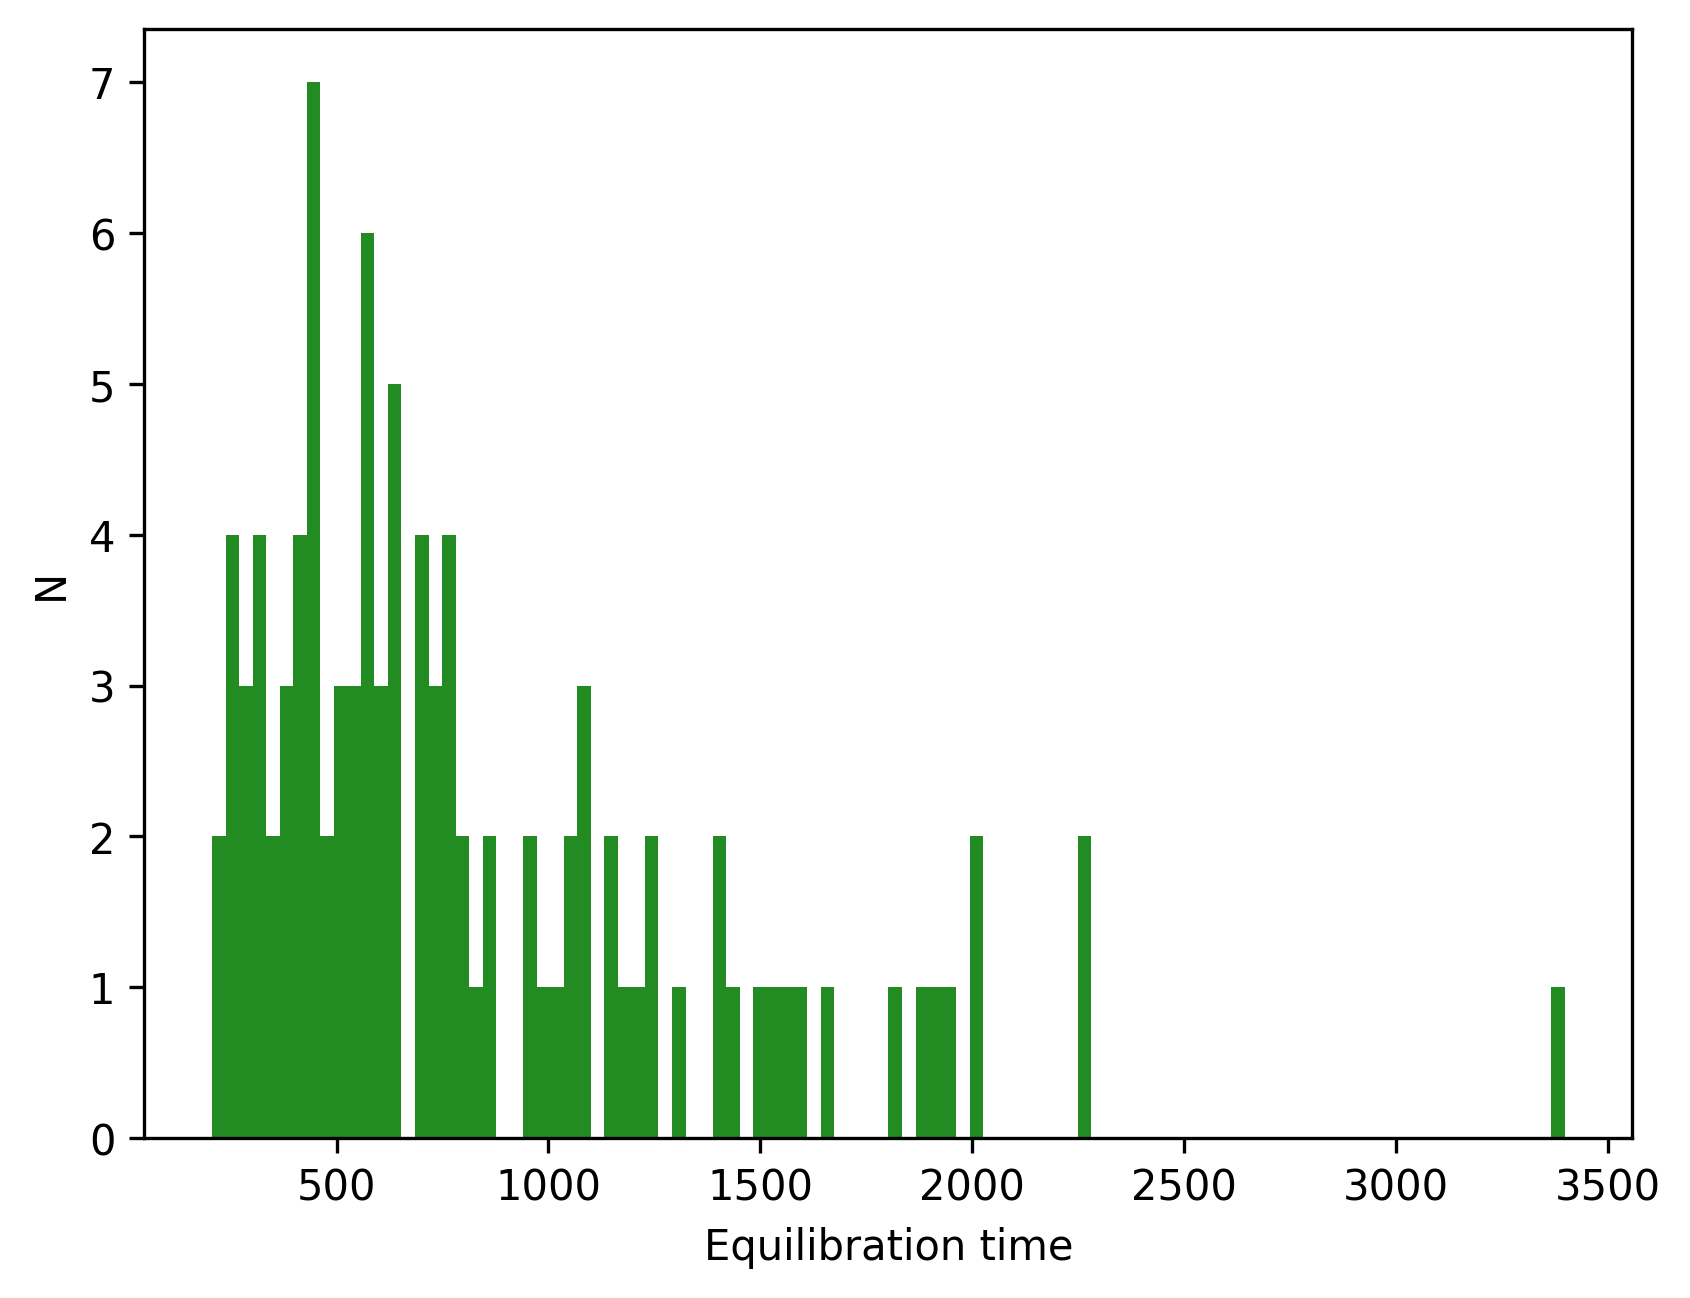
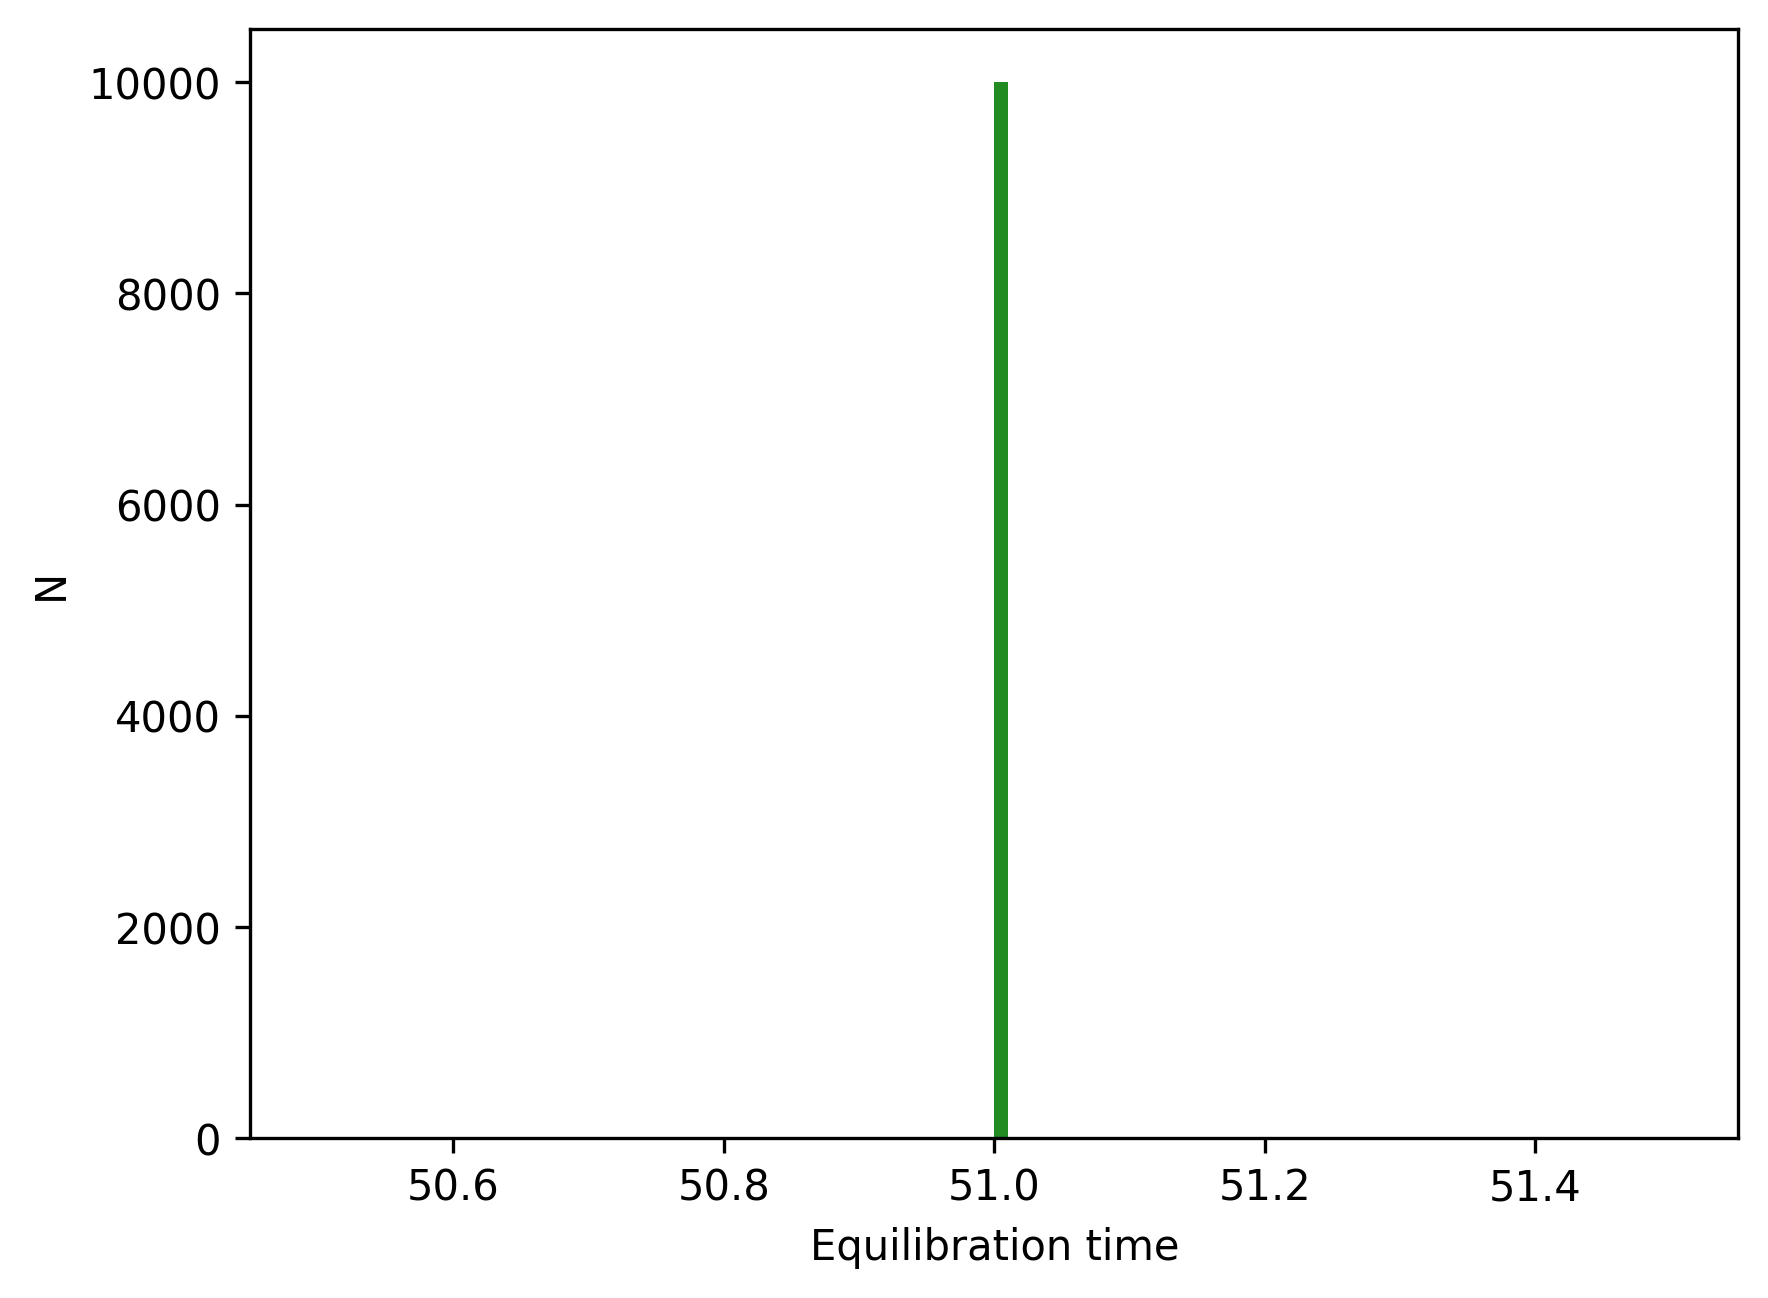
splitting life and sirs into separate files (not finished yet)

diff --git a/sirs.py b/sirs.py
@@ -9,11 +9,11 @@ from scipy.optimize import curve_fit
 
 custom_cmap = ListedColormap(['mintcream', 'tomato', 'darkgreen'])
 
-# plt.rcParams.update({ # Use LaTeX for text rendering
-#     "text.usetex": True,
-#     "font.family": "serif",
-#     "font.serif": ["Times"],
-# })
+plt.rcParams.update({ # Use LaTeX for text rendering
+    "text.usetex": True,
+    "font.family": "serif",
+    "font.serif": ["Times"],
+})
 
 def line(x, a, b):
     return a * x + b
@@ -110,7 +110,7 @@ def numba_life_update(lattice):
     return ((neighbours == 3) | (lattice & (neighbours == 2))).astype(np.int32)
 
 
-def animate(state=None, N=50):
+def plot(state=None, N=50):
 
     if state == None:
         lattice = init_random(N)
@@ -147,14 +147,7 @@ def equilibrate(state=None, N=50, runs=100, max_run_length=15000, engine='roll')
                 times.append(i)
                 break
 
-            if engine == 'roll':
-                lattice = life_update(lattice)
-            elif engine == 'numba':
-                lattice = numba_life_update(lattice)
-            else:
-                print("Incorrect engine name.")
-                quit()
-
+            lattice = life_update(lattice)
             alive = np.sum(lattice)
 
             if alive == alive_previous:
@@ -170,7 +163,8 @@ def equilibrate(state=None, N=50, runs=100, max_run_length=15000, engine='roll')
         writer = csv.writer(f)
         writer.writerow(times)
     
-    graph()
+    plt.hist(times)
+    plt.show()
     
 
 def graph():
@@ -183,6 +177,7 @@ def graph():
     except:
         print("File doesn't exist. Try running 'equilibrate' first.")
 
+    print(times)
     plt.hist(times, bins=100, color='forestgreen')
     plt.xlabel('Equilibration time')
     plt.ylabel('N')
@@ -266,6 +261,218 @@ def glider_speed():
     # plt.plot(t, x_positions, label='x')
 
 
+def init_sirs(N=50, i=0.333, r=0.333):
+    lattice = np.random.rand(N, N)
+    
+    i_mask = (lattice < i)
+    r_mask = (lattice > (1-r))
+    s_mask = ~(i_mask + r_mask)
+
+    lattice[s_mask] = 0
+    lattice[i_mask] = 1
+    lattice[r_mask] = 2
+
+    return lattice
+    
+def sirs_update_full_lattice(lattice, psi, pir, prs): # Incorrect implementation, do not use!!!
+
+    N = lattice.shape[0]
+
+    s_mask = (lattice == 0)
+    i_mask = (lattice == 1)
+    r_mask = (lattice == 2)
+
+    temp_lattice = np.random.rand(N, N)
+
+    temp_lattice[i_mask] = np.where(temp_lattice[i_mask] <= pir, 2, 1)
+    temp_lattice[r_mask] = np.where(temp_lattice[r_mask] <= prs, 0, 2)
+
+    directions = [(-1, 0), (0, -1), (0, 1), (1, 0)]
+    i_neighbours = np.zeros(lattice.shape)
+
+    for dir in directions:
+        i_neighbours += np.roll(i_mask, dir, axis=(0, 1))
+
+    at_risk = ((i_neighbours >= 1) & s_mask)
+    safe = (~at_risk & s_mask)
+
+    temp_lattice[at_risk] = np.where(temp_lattice[at_risk] <= psi, 1, 0)
+    temp_lattice[safe] = 0
+
+    return temp_lattice.copy()
+
+# def sirs_update(lattice, psi, pir, prs):
+
+#     N = lattice.shape[0]
+#     new_lattice = lattice.copy()
+
+#     for _ in range(N**2):
+
+#         i, j = np.random.randint(0, N, size=2)
+#         p = np.random.rand()
+#         state = new_lattice[i, j]
+
+#         if state == 0: # Chosen site is susceptible
+
+#             neighbours = sum([
+#                 lattice[(i-1) % N, j],
+#                 lattice[(i+1) % N, j],
+#                 lattice[i, (j-1) % N],
+#                 lattice[i, (j+1) % N]
+#             ])
+
+#             if neighbours >= 1 and p <= psi:
+#                 new_lattice[i, j] = 1
+
+#         elif state == 1 and p <= pir: # Chosen site is infected
+#             new_lattice[i, j] = 2
+
+#         elif state == 2 and p <= prs: # Chosen site is recovered
+#             new_lattice[i, j] = 0
+        
+#     return new_lattice
+
+@njit
+def sirs_update(lattice, psi, pir, prs):
+
+    N = lattice.shape[0]
+
+    for _ in range(N * N): # Runs a whole sweep (no need for control over single site updates)
+
+        i = np.random.randint(0, N)
+        j = np.random.randint(0, N)
+
+        state = lattice[i, j]
+
+        if state == 0:
+
+            i_neighbour = (
+                lattice[(i-1) % N, j] == 1 or
+                lattice[(i+1) % N, j] == 1 or
+                lattice[i, (j-1) % N] == 1 or
+                lattice[i, (j+1) % N] == 1
+            )
+
+            if i_neighbour:
+                if np.random.rand() < psi:
+                    lattice[i, j] = 1
+
+        elif state == 1:
+            if np.random.rand() < pir:
+                lattice[i, j] = 2
+
+        elif state == 2:
+            if np.random.rand() < prs:
+                lattice[i, j] = 0
+
+    return lattice
+
+
+
+def sirs(N=50, pi=0.1, pr=0.3, ps=0.3):
+
+    lattice = init_sirs(N)
+    plt.ion()
+    fig, ax = plt.subplots()
+    fig.canvas.mpl_connect("close_event", on_close) # Handles closing figure
+    img = ax.imshow(lattice, cmap=custom_cmap, vmin=0, vmax=2)
+    ax.set_title("SIRS")
+    ax.get_xaxis().set_visible(False)
+    ax.get_yaxis().set_visible(False)
+    while running:
+        lattice = sirs_update(lattice, psi=pi, pir=pr, prs=ps)
+        img.set_data(lattice)
+        plt.pause(0.05)
+    plt.ioff()
+
+def phase(N):
+    t_eq = 100
+    n_meas = 1000
+    grid_spacing = 0.05
+
+    n_sites = N**2
+
+    pir = 0.5
+    prs_vals = np.arange(0, 1, grid_spacing)
+    psi_vals = np.arange(0, 1, grid_spacing)
+
+    means = np.empty([prs_vals.shape[0], psi_vals.shape[0]], dtype=np.float64)
+    variances = np.empty([prs_vals.shape[0], psi_vals.shape[0]], dtype=np.float64)
+
+    for x, prs in enumerate(prs_vals):
+        print(f'{prs*100}%')
+        for y, psi in enumerate(psi_vals):
+            fracs = np.empty([n_meas], dtype=np.float64)
+
+            lattice = init_sirs(N)
+
+            for _ in range(t_eq):
+                lattice = sirs_update(lattice, psi, pir, prs)
+
+
+            for i in range(n_meas):
+                lattice = sirs_update(lattice, psi, pir, prs)
+                fracs[i] = np.sum((lattice == 1)) / n_sites
+            means[x, y] = np.mean(fracs)
+            variances[x, y] = np.var(fracs)
+
+    np.savetxt("sirs means.csv", means, delimiter=",")
+    np.savetxt("sirs variances.csv", variances, delimiter=",")
+
+def graph_sirs():
+    try:
+        means = np.loadtxt("sirs means.csv", delimiter=",")
+        variances = np.loadtxt("sirs variances.csv", delimiter=",")
+    except:
+        print("Non-existent files, run phase() first")
+
+    plt.imshow(means, cmap='plasma', extent=(0, 1, 0, 1), origin='lower', aspect='equal')
+    plt.ylabel(r"P(r$\rightarrow$s)")
+    plt.xlabel(r"P(s$\rightarrow$i)")
+    cbar = plt.colorbar()
+    cbar.set_label(r"$\langle I \rangle / N$", rotation='horizontal')
+    plt.savefig("sirs means.png", dpi=300, bbox_inches='tight')
+    plt.close()
+
+    plt.imshow(variances, cmap='plasma', extent=(0, 1, 0, 1), origin='lower', aspect='equal')
+    plt.ylabel(r"P(r$\rightarrow$s)")
+    plt.xlabel(r"P(s$\rightarrow$i)")
+    cbar = plt.colorbar()
+    cbar.set_label(r"$\sigma^2(\langle I \rangle / N)$", rotation='horizontal')
+    plt.savefig("sirs variances.png", dpi=300, bbox_inches='tight')
+    plt.close()
+
+def var_cut(N):
+    n_sites = N**2
+    t_eq = 500
+    n_meas = 10000
+    pir = 0.5
+    prs = 0.5
+    psi_vals = np.linspace(0.2, 0.5, 50)
+    var_list = np.empty_like(psi_vals)
+    err_list = np.empty_like(psi_vals)
+
+    for i, psi in enumerate(psi_vals):
+        print(f'{2*i}%')
+
+        lattice = init_sirs(N)
+        for _ in range(t_eq):
+            lattice = sirs_update(lattice, psi, pir, prs)
+
+        fracs = np.empty([n_meas], dtype=np.float64)
+        for j in range(n_meas):
+            lattice = sirs_update(lattice, psi, pir, prs)
+            fracs[j] = np.sum((lattice == 1)) / n_sites
+
+        var_list[i] = np.var(fracs)
+        err_list[i] = np.std(fracs)
+
+    plt.plot(psi_vals, var_list)
+    # plt.errorbar(psi_vals, var_list, err_list)
+    plt.show()
+
+
+
 def speedtest():
     N = 500000
 
@@ -290,30 +497,42 @@ def speedtest():
 
 if __name__ == "__main__":
 
+    # Handle command line arguments
     parser = argparse.ArgumentParser(description="Conway's Game of Life")
-    parser.add_argument("-a", "--action", help="What to do with model: 'animate' (animation) or 'equilibrate' (calculate equilibration time) or 'graph' (plot equilibration graph, requires .csv files from 'measure'). Default='animate'", type=str, default='animate')
-    parser.add_argument("-l", "--length", help="LxL size of lattice. Default=50", type=int, default=50)
-    parser.add_argument("-r", "--runs", help="Number of runs when calculating equilibration time. Default='10000", type=int, default=10000)
+
+    parser.add_argument("-a", "--action", help="What to do with model: 'animate' (animation) or 'measure' (calculate equilibration time) or 'plot' (plot equilibration graph, requires .csv files from 'measure'). Default='plot'", type=str, default='plot')
+    parser.add_argument("-n", "--number", help="NxN size of lattice. Default=50", type=int, default=50)
     parser.add_argument("-s", "--state", help="Initialise the system with a specific state (eg. 'Glider')", default=None)
-    parser.add_argument("-e", "--engine", help="Which update method to use ('roll' or 'numba'). 'roll' will use numpy's roll function, which is a little slower than using numba-friendly functions.", default="roll")
+    parser.add_argument("-e", "--engine", help="Which update method to use ('roll' or 'numba')", default="roll")
+    parser.add_argument("-pi", help="Probability of infection p(s->i)", type=float, default=0.1)
+    parser.add_argument("-pr", help="Probability of recovery p(i->r)", type=float, default=0.3)
+    parser.add_argument("-ps", help="Probability of becoming susceptible p(r->s)", type=float, default=0.3)
 
     
     args = parser.parse_args()
     action = args.action
-    L = args.length
-    r = args.runs
+    N = args.number
     state = args.state
     engine = args.engine
+    pi = args.pi
+    pr = args.pr
+    ps = args.ps
 
-    # speedtest()
-    # quit()
 
-    if action == 'animate':
-        animate(state, L)
+    if action == 'plot':
+        plot(state, N)
     elif action == 'equilibrate':
-        equilibrate(state, L, runs=r, engine=engine)
+        equilibrate(state, N, runs=10000)
     elif action == 'graph':
         graph()
     elif action == 'glider_speed':
         glider_speed()
+    elif action == 'sirs':
+        sirs(N, pi, pr, ps)
+    elif action == 'phase':
+        phase(N)
+    elif action == 'graph_sirs':
+        graph_sirs()
+    elif action == 'variance_plot':
+        var_cut(N)
     
